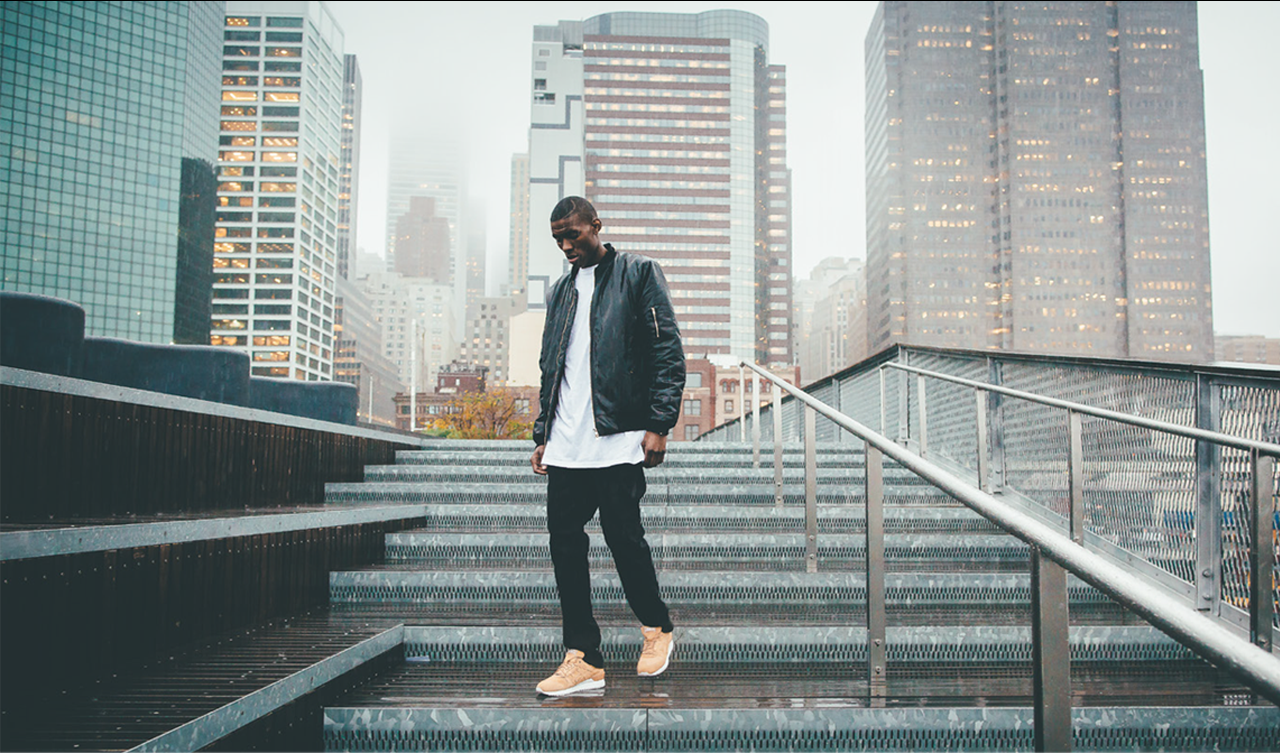
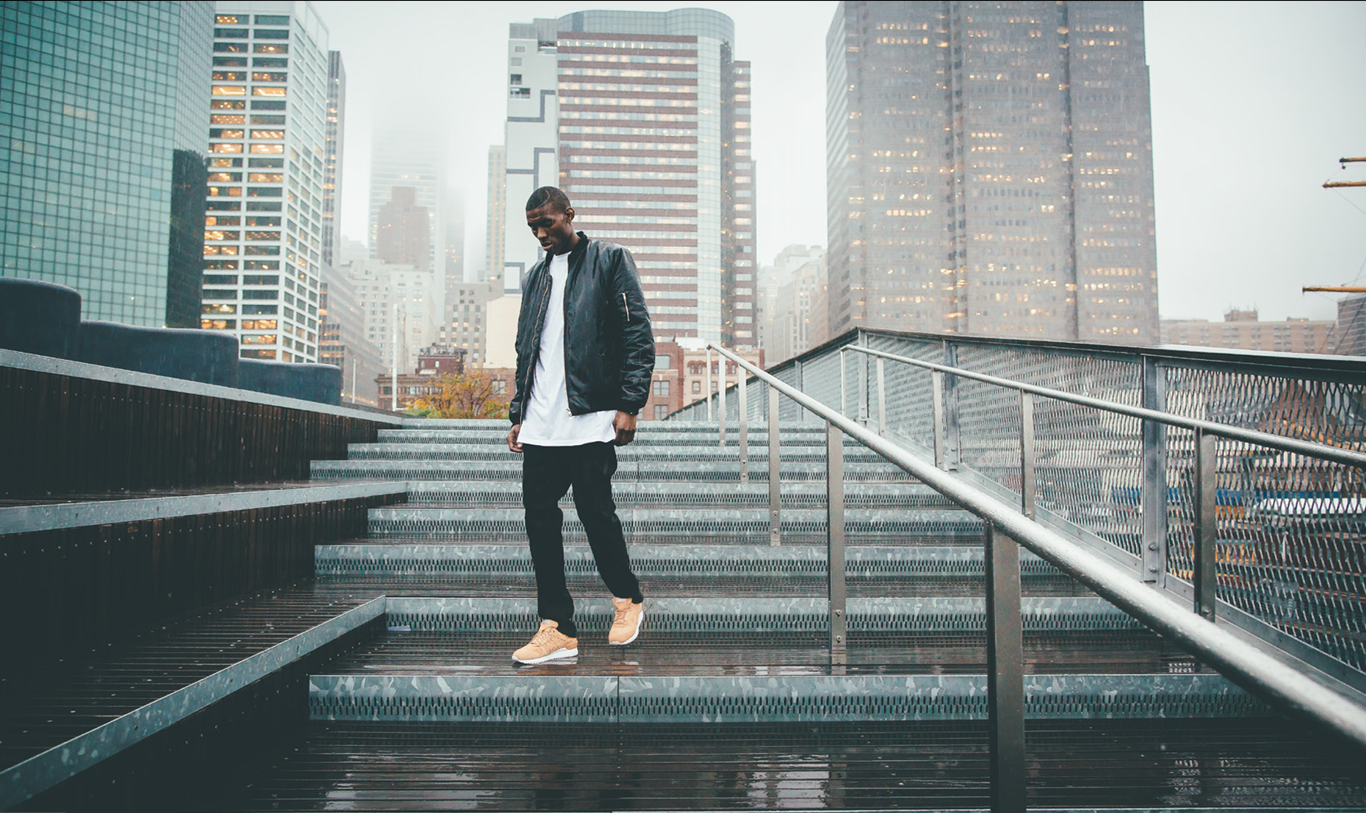
change main page

diff --git a/app/assets/stylesheets/style.scss b/app/assets/stylesheets/style.scss
@@ -29,7 +29,7 @@
 
 
 .banner_slides{
-        height: 58vw;
+   height: 58.6vw;
     position: relative;
 }
 .get_started:hover{
@@ -147,6 +147,8 @@ ul.nav.navbar-nav a {
     font-size: 1.9em;
     font-family: 'RobotoMedium';
     letter-spacing: 0.02em;
+        position: relative;
+    z-index: 10000;
     }
     
     .center-row {
@@ -158,7 +160,9 @@ ul.nav.navbar-nav a {
     float:none;    text-align: center;    line-height:2.5em;
 }
 
-
+.slick-initialized .slick-slide {
+    position: relative;
+}
 #likeit {
     background-color:#000;
         color: #fff;}
@@ -391,6 +395,33 @@ element.style {
     line-height: 2.5em;
     /* width: 100%; */
 }
+@media(max-width: 992px){
+    .howworks_link .right_block{padding: 0px !important;}
+    .cent_block {
+    padding: 0px !important;
+    }
+    .howworks_link .left_block {
+    padding: 0px !important;
+    }
+}
+@media(max-width: 768px){
+    .logo_block img {
+    width: 28%!important;
+    position: absolute;
+    bottom: 0;
+    top: 0;
+    margin: auto!important;
+    }
+    .logo_block{
+        position:relative;
+    }
+}
+@media(min-width: 768px){
+.logo_block img {
+    margin: 0px !important;
+    }
+}
+
 
 @media (min-width: 992px)and (max-width: 1720px){  
     #likeit .col-md-12{ 
@@ -490,6 +521,9 @@ footer a:hover {
 
 
 @media(min-width: 1200px) and (max-width: 1300px){
+.banner_slides {
+    height: 58vw!important;
+}
 h1{
     font-size: 1.5em!important;
     letter-spacing: 0.5vw!important;
@@ -638,16 +672,22 @@ footer a {
     padding:0px 0.9% 0 3.8%;
 } 
 
-
-
+ .top_banner_slide {  background-size: cover!important;
+    background-repeat: no-repeat!important;
+    background-position: center!important;
+    }
+.banner_slides.slick-initialized.slick-slider.slick-dotted > div {
+    height: 100%!important;
+}
+.slick-track{
+    height: 100%!important;
+}
  /********----------****/
  @media(max-width:1660px){
 .container {
     padding: 0 6%;
 }
- .logo_block img{
- margin:0px!important;
- }
+
 .navbar-nav {
     padding: 0vw 4vw 0 3vw;
 }   
